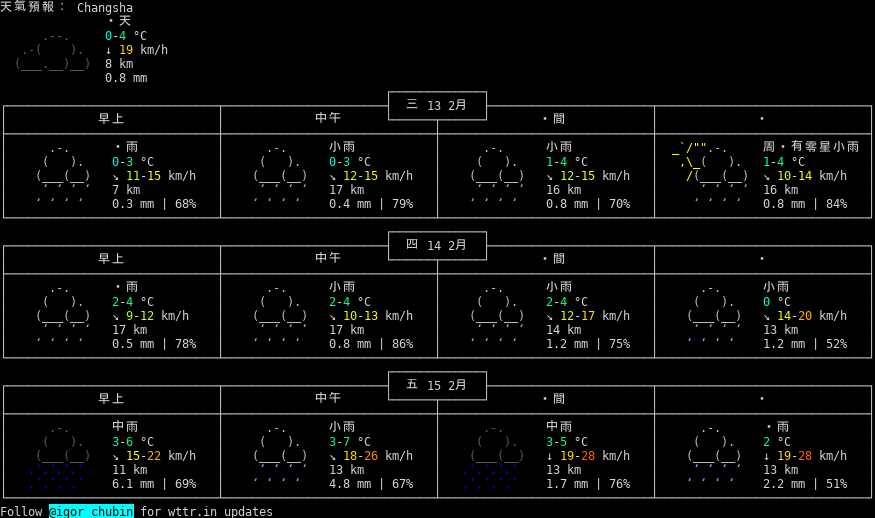
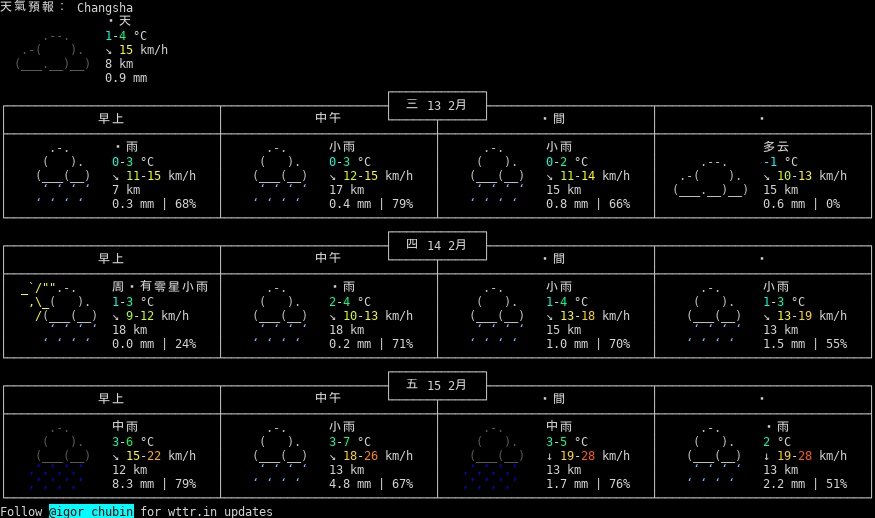
update Today's log:)

diff --git a/README.md b/README.md
@@ -7319,3 +7319,4 @@ My Shell_script learning note
 * 2019年02月13日 星期Wed PM 9:00 CST   天气: 4-7°C (Heiwajima, Japan)
 * 2019年02月13日 星期Wed PM 9:20 CST   天气: 4-7°C (Heiwajima, Japan)
 * 2019年02月13日 星期Wed PM 9:40 CST   天气: 4-7°C (Heiwajima, Japan)
+* 2019年02月13日 星期Wed PM10:00 CST   天气: 6-7°C (Heiwajima, Japan)

diff --git a/weather.md b/weather.md
@@ -29105,3 +29105,7 @@
 
 ![](PNG/20190213.png)
 
+2019年 02月 13日
+
+![](PNG/20190213.png)
+
